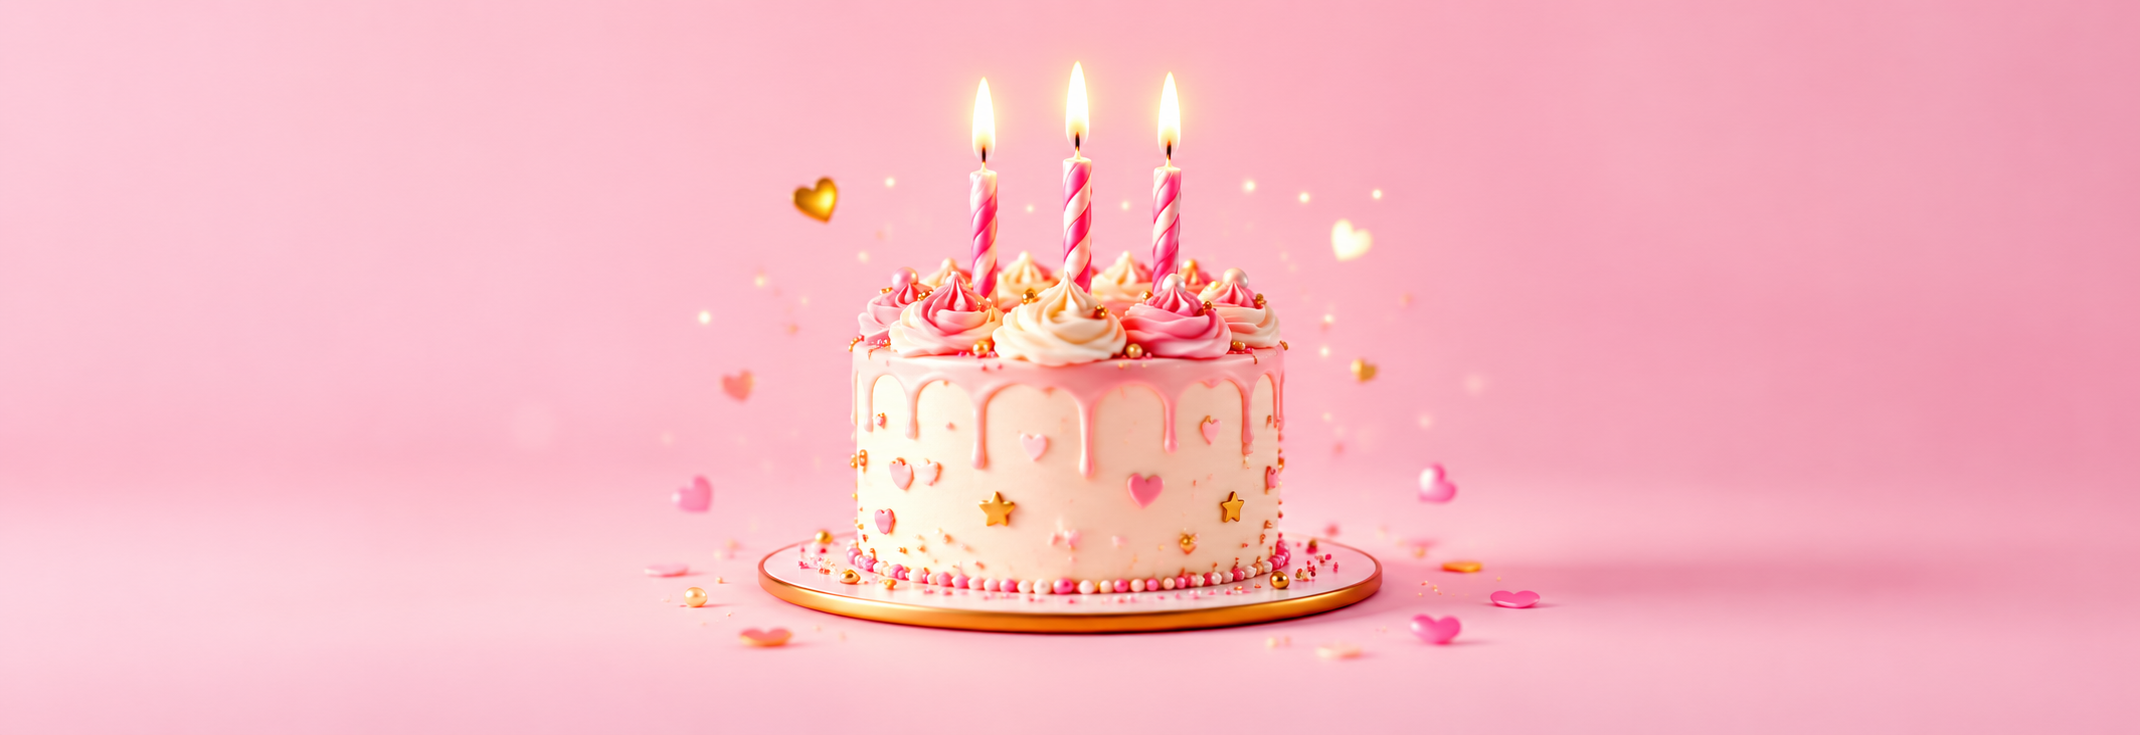
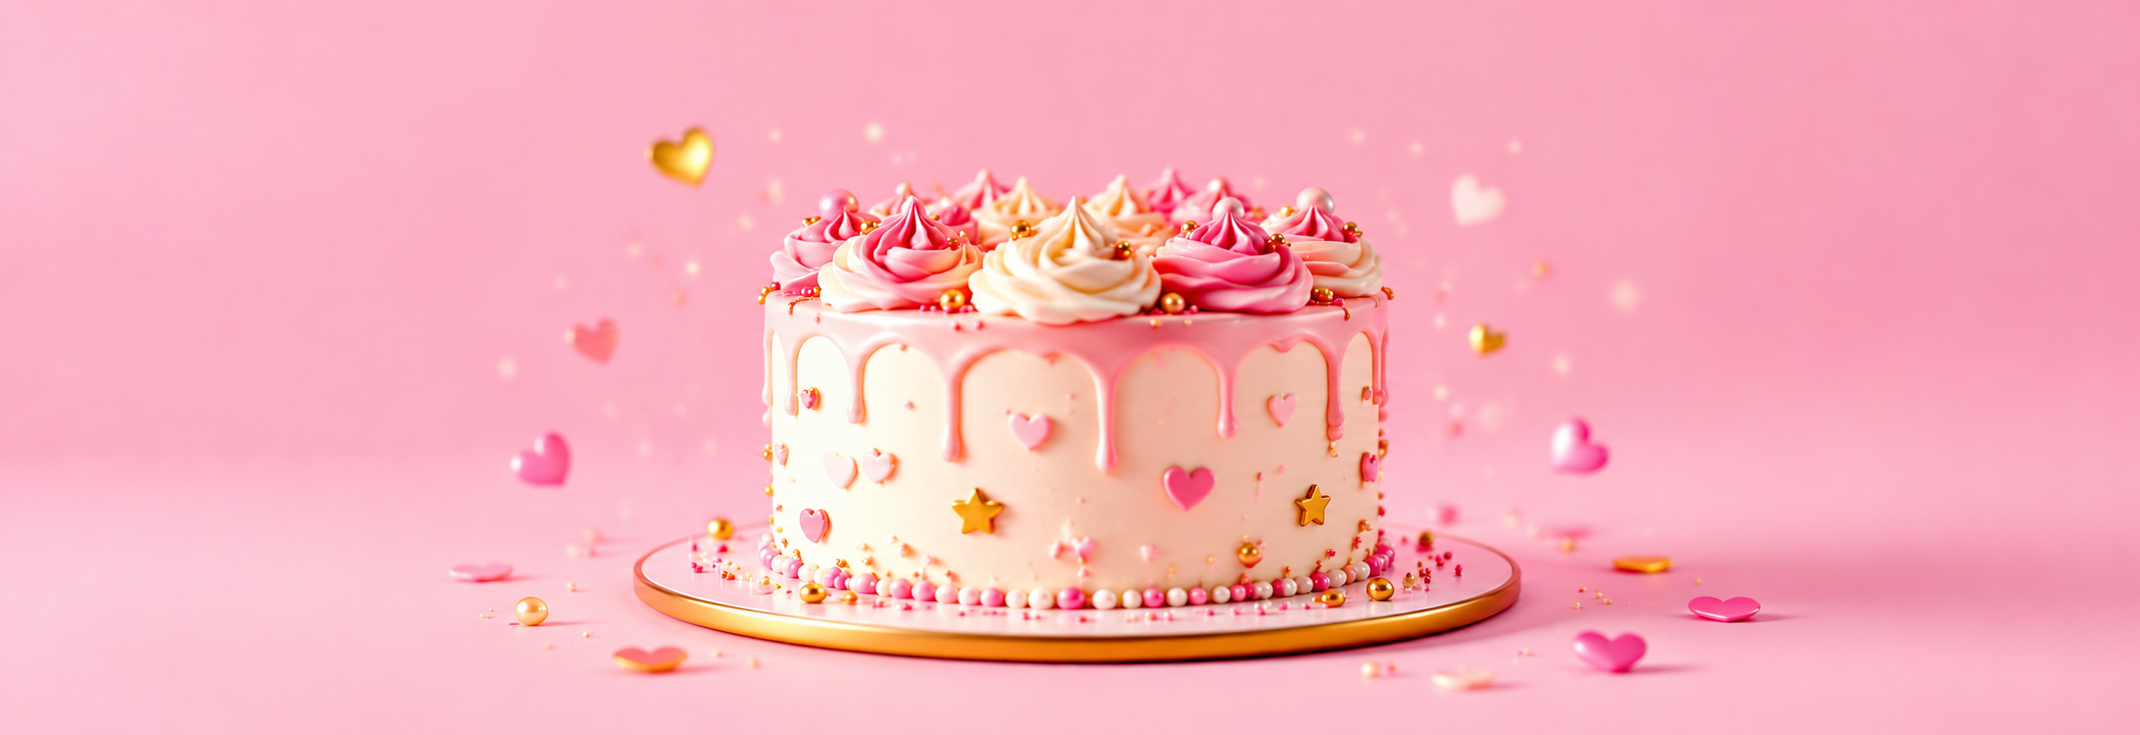
Update website

diff --git a/components/MobileFirstCelebrationApp.tsx b/components/MobileFirstCelebrationApp.tsx
@@ -196,9 +196,9 @@ export default function MobileFirstCelebrationApp({ birthday }: MobileAppProps) 
       }
 
       // Preload profile image and memory images
-      const profileImg = await loadImg(birthday.profileImage || '/images/rose_birthday_hero.png')
-      const memoryImg1 = await loadImg(memoriesList[0]?.imageUrl || '/images/rose_memory_1.png')
-      const memoryImg2 = await loadImg(memoriesList[1]?.imageUrl || '/images/rose_memory_2.png')
+      const profileImg = await loadImg(birthday.profileImage || '/images/rose_birthday_hero.webp')
+      const memoryImg1 = await loadImg(memoriesList[0]?.imageUrl || '/images/rose_memory_1.webp')
+      const memoryImg2 = await loadImg(memoriesList[1]?.imageUrl || '/images/rose_memory_2.webp')
 
       // 2. Setup 720x1280 Canvas
       const canvas = document.createElement('canvas')
@@ -613,10 +613,10 @@ export default function MobileFirstCelebrationApp({ birthday }: MobileAppProps) 
   }
 
   const memoriesList = birthday.memories && birthday.memories.length > 0 ? birthday.memories : [
-    { title: 'Romantic Rose Celebration', imageUrl: '/images/rose_memory_1.png', description: 'Crystal champagne toast & warm golden lights.' },
-    { title: 'Sunset Beach Walk', imageUrl: '/images/rose_memory_2.png', description: 'Warm breeze and glowing evening sky.' },
-    { title: 'Magical Rooftop Party', imageUrl: '/images/rose_memory_3.png', description: 'Fairy lights, sparklers, and rose blossoms.' },
-    { title: '3-Tier Luxury Rose Cake', imageUrl: '/images/cakee.png', description: 'Decadent cake adorned with 24k gold leaf.' }
+    { title: 'Romantic Rose Celebration', imageUrl: '/images/rose_memory_1.webp', description: 'Crystal champagne toast & warm golden lights.' },
+    { title: 'Sunset Beach Walk', imageUrl: '/images/rose_memory_2.webp', description: 'Warm breeze and glowing evening sky.' },
+    { title: 'Magical Rooftop Party', imageUrl: '/images/rose_memory_3.webp', description: 'Fairy lights, sparklers, and rose blossoms.' },
+    { title: '3-Tier Luxury Rose Cake', imageUrl: '/images/cakee.webp', description: 'Decadent cake adorned with 24k gold leaf.' }
   ]
 
   const timelineEvents = birthday.timelineEvents && birthday.timelineEvents.length > 0 ? birthday.timelineEvents : [
@@ -648,7 +648,7 @@ export default function MobileFirstCelebrationApp({ birthday }: MobileAppProps) 
   }
 
   return (
-    <div className="relative min-h-screen h-[100dvh] max-h-[100dvh] bg-gradient-to-b from-[#fff1f2] via-[#ffe4e6] to-[#fecdd3] text-[#881337] flex flex-col justify-between items-center py-1 px-1.5 sm:py-2 sm:px-4 overflow-hidden select-none">
+    <div className="relative min-h-screen h-[100dvh] max-h-[100dvh] bg-gradient-to-b from-[#fff1f2] via-[#ffe4e6] to-[#fecdd3] text-[#881337] flex flex-col justify-center items-center gap-1.5 py-1.5 px-2 sm:py-3 sm:px-4 overflow-hidden select-none">
       
       {/* Background ambient lighting */}
       <div className="absolute top-10 left-1/2 -translate-x-1/2 w-[450px] h-[450px] bg-rose-400/20 rounded-full blur-[120px] pointer-events-none" />
@@ -730,7 +730,7 @@ export default function MobileFirstCelebrationApp({ birthday }: MobileAppProps) 
       </div>
 
       {/* COMPACT SLIDE CONTAINER */}
-      <div className="relative w-full max-w-sm flex-1 flex flex-col justify-center z-20 overflow-hidden my-auto min-h-0">
+      <div className="relative w-full max-w-sm flex-1 flex flex-col justify-center z-20 overflow-hidden min-h-0 my-0 py-0.5">
         <AnimatePresence mode="wait" custom={direction}>
 
           {/* SLIDE 0: INVITATION HERO */}
@@ -823,7 +823,7 @@ export default function MobileFirstCelebrationApp({ birthday }: MobileAppProps) 
               </p>
 
               <div className="relative w-full aspect-[16/9] max-h-36 sm:max-h-40 rounded-xl overflow-hidden border border-rose-200/60 mb-2 shadow-lg cursor-pointer bg-gradient-to-b from-rose-950/20 to-black/60 group" onClick={handleBlowCandles}>
-                <Image src="/images/cakee.png" alt="Rose Birthday Cake" fill sizes="(max-width: 640px) 384px, 450px" className="object-cover object-center transition-transform duration-500 group-hover:scale-105" />
+                <Image src="/images/cakee.webp" alt="Rose Birthday Cake" fill sizes="(max-width: 640px) 384px, 450px" className="object-cover object-center transition-transform duration-500 group-hover:scale-105" />
                 <div className="absolute inset-0 bg-gradient-to-t from-black/40 via-transparent to-black/10 pointer-events-none" />
 
                 {/* Candles positioned directly on top surface of clean cake tier */}
@@ -907,7 +907,7 @@ export default function MobileFirstCelebrationApp({ birthday }: MobileAppProps) 
               </p>
 
               <div className="relative w-full aspect-[16/9] max-h-36 sm:max-h-40 rounded-xl overflow-hidden border border-white mb-2 shadow-lg cursor-pointer" onClick={handleOpenGift}>
-                <Image src="/images/rose_gift_box.png" alt="Rose Gift Box" fill sizes="(max-width: 640px) 384px, 450px" className="object-cover" />
+                <Image src="/images/rose_gift_box.webp" alt="Rose Gift Box" fill sizes="(max-width: 640px) 384px, 450px" className="object-cover" />
                 <div className="absolute inset-0 bg-gradient-to-t from-black/60 via-transparent to-black/20" />
 
                 {!giftOpened ? (

diff --git a/lib/data-store.ts b/lib/data-store.ts
@@ -27,7 +27,7 @@ const FALLBACK_PRIYA_BIRTHDAY: BirthdayWithDetails = {
   name: 'Nabesha',
   slug: 'nabesha-2026',
   birthdayDate: new Date('2026-10-05T00:00:00Z'),
-  profileImage: '/images/rose_birthday_hero.png',
+  profileImage: '/images/rose_birthday_hero.webp',
   headline: '🌹 A Special Day For An Extraordinary Soul 🌹',
   description: 'Welcome to Nabesha’s 2026 Birthday Celebration! Explore cherished rose memories, milestone stories, blow out the virtual candles, and celebrate with love!',
   personalMessage: 'Dear Nabesha, your smile brightens up the world around you and your warmth inspires everyone. May this year bring you boundless happiness, thrilling adventures, and true magic in every moment!',
@@ -59,7 +59,7 @@ const FALLBACK_PRIYA_BIRTHDAY: BirthdayWithDetails = {
       birthdayId: 'priya-demo-id',
       title: 'Romantic Rose Celebration Toast',
       description: 'Crystal rose champagne, golden lights, and unforgettable laughter.',
-      imageUrl: '/images/rose_memory_1.png',
+      imageUrl: '/images/rose_memory_1.webp',
       displayOrder: 1,
       createdAt: new Date()
     },
@@ -68,7 +68,7 @@ const FALLBACK_PRIYA_BIRTHDAY: BirthdayWithDetails = {
       birthdayId: 'priya-demo-id',
       title: 'Rose Sunset Beach Walk',
       description: 'Golden hour waves, warm breeze, and glowing evening sky.',
-      imageUrl: '/images/rose_memory_2.png',
+      imageUrl: '/images/rose_memory_2.webp',
       displayOrder: 2,
       createdAt: new Date()
     },
@@ -77,7 +77,7 @@ const FALLBACK_PRIYA_BIRTHDAY: BirthdayWithDetails = {
       birthdayId: 'priya-demo-id',
       title: '3-Tier Luxury Rose Cake',
       description: 'Decadent cake adorned with 24k edible gold foil and fresh rose petals.',
-      imageUrl: '/images/cakee.png',
+      imageUrl: '/images/cakee.webp',
       displayOrder: 3,
       createdAt: new Date()
     },
@@ -86,7 +86,7 @@ const FALLBACK_PRIYA_BIRTHDAY: BirthdayWithDetails = {
       birthdayId: 'priya-demo-id',
       title: 'Luxury Satin Ribbon Gift Unboxing',
       description: 'Unboxing secret heartfelt notes and birthday surprise treasures.',
-      imageUrl: '/images/rose_gift_box.png',
+      imageUrl: '/images/rose_gift_box.webp',
       displayOrder: 4,
       createdAt: new Date()
     },
@@ -95,7 +95,7 @@ const FALLBACK_PRIYA_BIRTHDAY: BirthdayWithDetails = {
       birthdayId: 'priya-demo-id',
       title: 'Stargazing Under Open Rose Sky',
       description: 'Counting shooting stars and making big wishes for the bright years ahead.',
-      imageUrl: '/images/rose_birthday_hero.png',
+      imageUrl: '/images/rose_birthday_hero.webp',
       displayOrder: 5,
       createdAt: new Date()
     },
@@ -107,7 +107,7 @@ const FALLBACK_PRIYA_BIRTHDAY: BirthdayWithDetails = {
       year: '2018',
       title: 'A Beautiful Beginning',
       description: 'Stepped into a brand new chapter with big dreams, high energy, and endless curiosity.',
-      imageUrl: '/images/rose_birthday_hero.png',
+      imageUrl: '/images/rose_birthday_hero.webp',
       displayOrder: 1,
       createdAt: new Date()
     },
@@ -117,7 +117,7 @@ const FALLBACK_PRIYA_BIRTHDAY: BirthdayWithDetails = {
       year: '2020',
       title: 'Finding True Passion',
       description: 'Discovered a deep creative calling and built meaningful lifelong friendships.',
-      imageUrl: '/images/rose_memory_1.png',
+      imageUrl: '/images/rose_memory_1.webp',
       displayOrder: 2,
       createdAt: new Date()
     },
@@ -127,7 +127,7 @@ const FALLBACK_PRIYA_BIRTHDAY: BirthdayWithDetails = {
       year: '2022',
       title: 'Major Milestone Achievements',
       description: 'Overcame big challenges with grace, courage, and unwavering perseverance.',
-      imageUrl: '/images/rose_memory_2.png',
+      imageUrl: '/images/rose_memory_2.webp',
       displayOrder: 3,
       createdAt: new Date()
     },
@@ -137,7 +137,7 @@ const FALLBACK_PRIYA_BIRTHDAY: BirthdayWithDetails = {
       year: '2024',
       title: 'Unforgettable Global Journey',
       description: 'Traveled to breath-taking destinations and embraced diverse cultures and perspectives.',
-      imageUrl: '/images/rose_memory_3.png',
+      imageUrl: '/images/rose_memory_3.webp',
       displayOrder: 4,
       createdAt: new Date()
     },
@@ -147,7 +147,7 @@ const FALLBACK_PRIYA_BIRTHDAY: BirthdayWithDetails = {
       year: '2026',
       title: 'A Golden Year Ahead',
       description: 'Ready to shine brighter than ever, surrounded by immense love and limitless possibilities!',
-      imageUrl: '/images/cakee.png',
+      imageUrl: '/images/cakee.webp',
       displayOrder: 5,
       createdAt: new Date()
     }

diff --git a/prisma/seed.ts b/prisma/seed.ts
@@ -36,7 +36,7 @@ async function main() {
       name: 'Nabesha',
       slug: 'nabesha-2026',
       birthdayDate: new Date('2026-10-05T00:00:00Z'),
-      profileImage: '/images/rose_birthday_hero.png',
+      profileImage: '/images/rose_birthday_hero.webp',
       headline: '🌹 A Special Day For An Extraordinary Soul 🌹',
       description: 'Welcome to Nabesha’s 2026 Birthday Celebration! Explore cherished rose memories, milestone stories, blow out the virtual candles, and celebrate with love!',
       personalMessage: 'Dear Nabesha, your smile brightens up the world around you and your warmth inspires everyone. May this year bring you boundless happiness, thrilling adventures, and true magic in every moment!',
@@ -65,25 +65,25 @@ async function main() {
           {
             title: 'Romantic Rose Celebration Toast',
             description: 'Crystal rose champagne, golden lights, and unforgettable laughter.',
-            imageUrl: '/images/rose_memory_1.png',
+            imageUrl: '/images/rose_memory_1.webp',
             displayOrder: 1,
           },
           {
             title: 'Rose Sunset Beach Walk',
             description: 'Golden hour waves, warm breeze, and glowing evening sky.',
-            imageUrl: '/images/rose_memory_2.png',
+            imageUrl: '/images/rose_memory_2.webp',
             displayOrder: 2,
           },
           {
             title: '3-Tier Luxury Rose Cake',
             description: 'Decadent cake adorned with 24k edible gold foil and fresh rose petals.',
-            imageUrl: '/images/rose_birthday_cake.png',
+            imageUrl: '/images/rose_birthday_cake.webp',
             displayOrder: 3,
           },
           {
             title: 'Luxury Satin Ribbon Gift Unboxing',
             description: 'Unboxing secret heartfelt notes and birthday surprise treasures.',
-            imageUrl: '/images/rose_gift_box.png',
+            imageUrl: '/images/rose_gift_box.webp',
             displayOrder: 4,
           },
         ]
@@ -94,35 +94,35 @@ async function main() {
             year: '2018',
             title: 'A Beautiful Beginning',
             description: 'Stepped into a brand new chapter with big dreams, high energy, and endless curiosity.',
-            imageUrl: '/images/rose_birthday_hero.png',
+            imageUrl: '/images/rose_birthday_hero.webp',
             displayOrder: 1,
           },
           {
             year: '2020',
             title: 'Finding True Passion',
             description: 'Discovered a deep creative calling and built meaningful lifelong friendships.',
-            imageUrl: '/images/rose_memory_1.png',
+            imageUrl: '/images/rose_memory_1.webp',
             displayOrder: 2,
           },
           {
             year: '2022',
             title: 'Major Milestone Achievements',
             description: 'Overcame big challenges with grace, courage, and unwavering perseverance.',
-            imageUrl: '/images/rose_memory_2.png',
+            imageUrl: '/images/rose_memory_2.webp',
             displayOrder: 3,
           },
           {
             year: '2024',
             title: 'Unforgettable Global Journey',
             description: 'Traveled to breath-taking destinations and embraced diverse cultures and perspectives.',
-            imageUrl: '/images/rose_memory_3.png',
+            imageUrl: '/images/rose_memory_3.webp',
             displayOrder: 4,
           },
           {
             year: '2026',
             title: 'A Golden Year Ahead',
             description: 'Ready to shine brighter than ever, surrounded by immense love and limitless possibilities!',
-            imageUrl: '/images/rose_birthday_cake.png',
+            imageUrl: '/images/rose_birthday_cake.webp',
             displayOrder: 5,
           },
         ]

diff --git a/components/MobileCelebrationJourney.tsx b/components/MobileCelebrationJourney.tsx
@@ -114,10 +114,10 @@ export default function MobileCelebrationJourney({ birthday }: MobileJourneyProp
   if (!mounted) return null
 
   const memories = birthday.memories && birthday.memories.length > 0 ? birthday.memories : [
-    { title: 'Romantic Rose Celebration', imageUrl: '/images/rose_memory_1.png', description: 'Crystal champagne toast & warm golden lights.' },
-    { title: 'Sunset Beach Walk', imageUrl: '/images/rose_memory_2.png', description: 'Warm breeze and glowing evening sky.' },
-    { title: 'Magical Rooftop Party', imageUrl: '/images/rose_memory_3.png', description: 'Fairy lights, sparklers, and rose blossoms.' },
-    { title: '3-Tier Rose Cake', imageUrl: '/images/rose_birthday_cake.png', description: 'Decadent cake adorned with 24k gold leaf.' }
+    { title: 'Romantic Rose Celebration', imageUrl: '/images/rose_memory_1.webp', description: 'Crystal champagne toast & warm golden lights.' },
+    { title: 'Sunset Beach Walk', imageUrl: '/images/rose_memory_2.webp', description: 'Warm breeze and glowing evening sky.' },
+    { title: 'Magical Rooftop Party', imageUrl: '/images/rose_memory_3.webp', description: 'Fairy lights, sparklers, and rose blossoms.' },
+    { title: '3-Tier Rose Cake', imageUrl: '/images/rose_birthday_cake.webp', description: 'Decadent cake adorned with 24k gold leaf.' }
   ]
 
   const timelineEvents = birthday.timelineEvents && birthday.timelineEvents.length > 0 ? birthday.timelineEvents : [

diff --git a/components/InstagramBirthdayStory.tsx b/components/InstagramBirthdayStory.tsx
@@ -115,10 +115,10 @@ export default function InstagramBirthdayStory({ birthday }: BirthdayStoryProps)
   }
 
   const memoriesList = birthday.memories && birthday.memories.length > 0 ? birthday.memories : [
-    { title: 'Romantic Rose Celebration', imageUrl: '/images/rose_memory_1.png', description: 'Crystal champagne toast & warm golden lights.' },
-    { title: 'Sunset Beach Walk', imageUrl: '/images/rose_memory_2.png', description: 'Warm breeze and glowing evening sky.' },
-    { title: 'Magical Rooftop Party', imageUrl: '/images/rose_memory_3.png', description: 'Fairy lights, sparklers, and rose blossoms.' },
-    { title: 'Luxury Birthday Cake', imageUrl: '/images/rose_birthday_cake.png', description: '3-tier rose gold cake with 24k gold leaf.' }
+    { title: 'Romantic Rose Celebration', imageUrl: '/images/rose_memory_1.webp', description: 'Crystal champagne toast & warm golden lights.' },
+    { title: 'Sunset Beach Walk', imageUrl: '/images/rose_memory_2.webp', description: 'Warm breeze and glowing evening sky.' },
+    { title: 'Magical Rooftop Party', imageUrl: '/images/rose_memory_3.webp', description: 'Fairy lights, sparklers, and rose blossoms.' },
+    { title: 'Luxury Birthday Cake', imageUrl: '/images/rose_birthday_cake.webp', description: '3-tier rose gold cake with 24k gold leaf.' }
   ]
 
   const timelineList = birthday.timelineEvents && birthday.timelineEvents.length > 0 ? birthday.timelineEvents : [

diff --git a/components/birthday/BirthdayExperience.tsx b/components/birthday/BirthdayExperience.tsx
@@ -47,7 +47,7 @@ export default function BirthdayExperience({ birthday }: BirthdayExperienceProps
   const currentStepNum = step === 'envelope' ? 1 : step === 'letter' ? 2 : 3
 
   return (
-    <div className="relative min-h-screen h-[100dvh] max-h-[100dvh] bg-gradient-to-b from-[#fff1f2] via-[#ffe4e6] to-[#fecdd3] text-[#881337] flex flex-col justify-between items-center py-2 px-3 sm:px-4 overflow-hidden select-none">
+    <div className="relative min-h-screen h-[100dvh] max-h-[100dvh] bg-gradient-to-b from-[#fff1f2] via-[#ffe4e6] to-[#fecdd3] text-[#881337] flex flex-col justify-center items-center gap-1.5 py-1.5 px-2 sm:py-3 sm:px-4 overflow-hidden select-none">
       
       {/* Ambient background glow */}
       <div className="absolute top-10 left-1/2 -translate-x-1/2 w-[450px] h-[450px] bg-rose-400/20 rounded-full blur-[120px] pointer-events-none" />
@@ -63,7 +63,7 @@ export default function BirthdayExperience({ birthday }: BirthdayExperienceProps
         </div>
       </header>
 
-      <div className="w-full max-w-sm flex-1 flex flex-col justify-center items-center my-auto z-10 py-1 overflow-hidden min-h-0">
+      <div className="w-full max-w-sm flex-1 flex flex-col justify-center items-center my-0 z-10 py-0.5 overflow-hidden min-h-0">
         <AnimatePresence mode="wait">
           
           {/* STEP 1: ENVELOPE INTRO */}

diff --git a/app/api/birthdays/route.ts b/app/api/birthdays/route.ts
@@ -36,26 +36,26 @@ export async function POST(req: NextRequest) {
       ? body.memories.map((m: any, idx: number) => ({
           title: m.title || `Memory #${idx + 1}`,
           description: m.description || '',
-          imageUrl: m.imageUrl || '/images/rose_memory_1.png',
+          imageUrl: m.imageUrl || '/images/rose_memory_1.webp',
           displayOrder: idx + 1,
         }))
       : [
           {
             title: 'Celebration Toast',
             description: 'Crystal rose champagne & golden lights',
-            imageUrl: '/images/rose_memory_1.png',
+            imageUrl: '/images/rose_memory_1.webp',
             displayOrder: 1,
           },
           {
             title: 'Sunset Beach Walk',
             description: 'Golden hour waves & glowing evening sky',
-            imageUrl: '/images/rose_memory_2.png',
+            imageUrl: '/images/rose_memory_2.webp',
             displayOrder: 2,
           },
           {
             title: '3-Tier Birthday Cake',
             description: 'Luxury cake adorned with edible gold foil',
-            imageUrl: '/images/rose_birthday_cake.png',
+            imageUrl: '/images/rose_birthday_cake.webp',
             displayOrder: 3,
           },
           {

diff --git a/components/BirthdayCake.tsx b/components/BirthdayCake.tsx
@@ -45,7 +45,7 @@ export default function BirthdayCake({ birthdayName }: BirthdayCakeProps) {
           {/* Cake Image Box with Candles Overlay */}
           <div className="relative w-full h-80 rounded-3xl overflow-hidden border-2 border-rose-400/30 shadow-2xl glass-panel">
             <Image
-              src="/images/cakee.png"
+              src="/images/cakee.webp"
               alt="Luxury Rose Birthday Cake"
               fill
               priority

diff --git a/components/GiftBox.tsx b/components/GiftBox.tsx
@@ -48,7 +48,7 @@ export default function GiftBox({ personalMessage, birthdayName }: GiftBoxProps)
             className="relative w-full h-72 rounded-3xl overflow-hidden border-2 border-rose-400/30 shadow-2xl cursor-pointer glass-panel"
           >
             <Image
-              src="/images/rose_gift_box.png"
+              src="/images/rose_gift_box.webp"
               alt="Luxury Rose Birthday Gift Box"
               fill
               priority

diff --git a/app/api/birthdays/[id]/route.ts b/app/api/birthdays/[id]/route.ts
@@ -48,7 +48,7 @@ export async function PUT(
             birthdayId: id,
             title: m.title || `Memory #${idx + 1}`,
             description: m.description || '',
-            imageUrl: m.imageUrl || '/images/rose_memory_1.png',
+            imageUrl: m.imageUrl || '/images/rose_memory_1.webp',
             displayOrder: idx + 1,
           }))
         }).catch(() => {})
